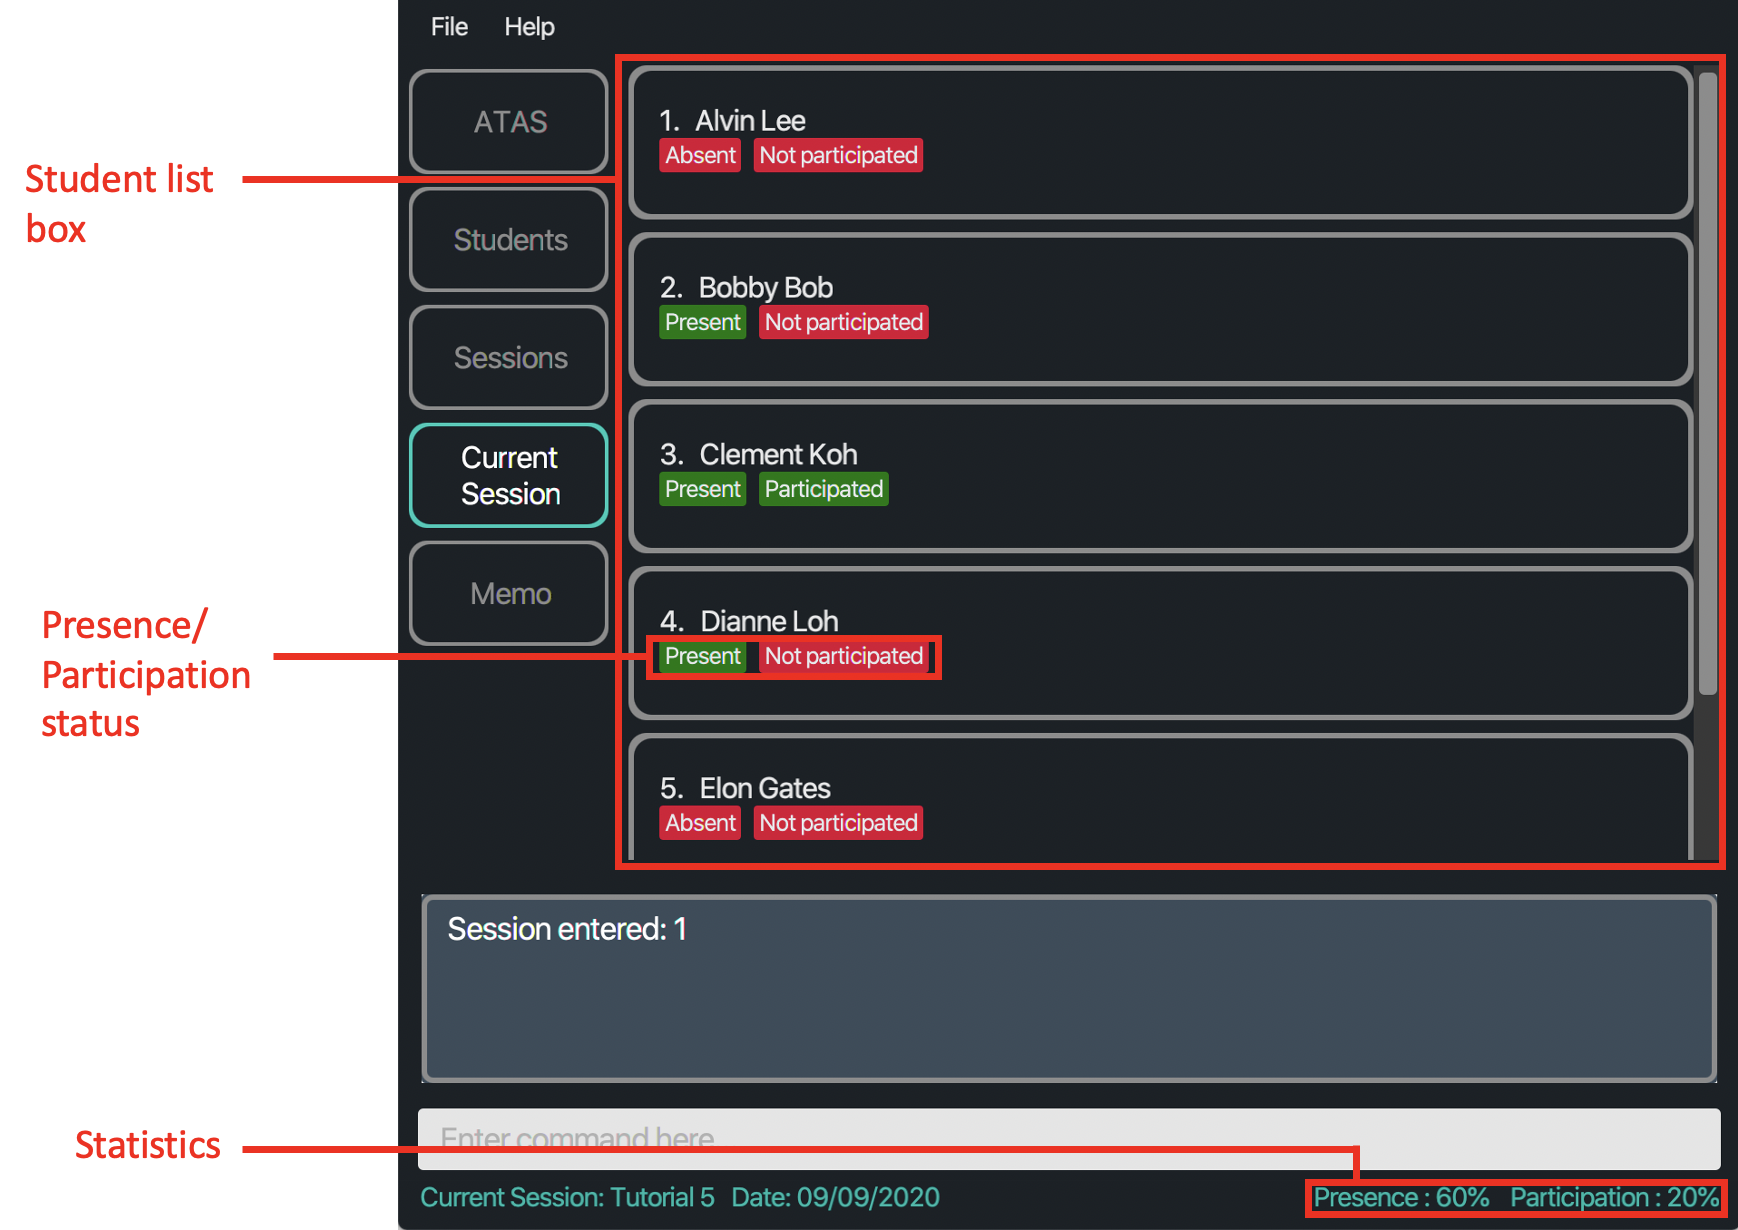
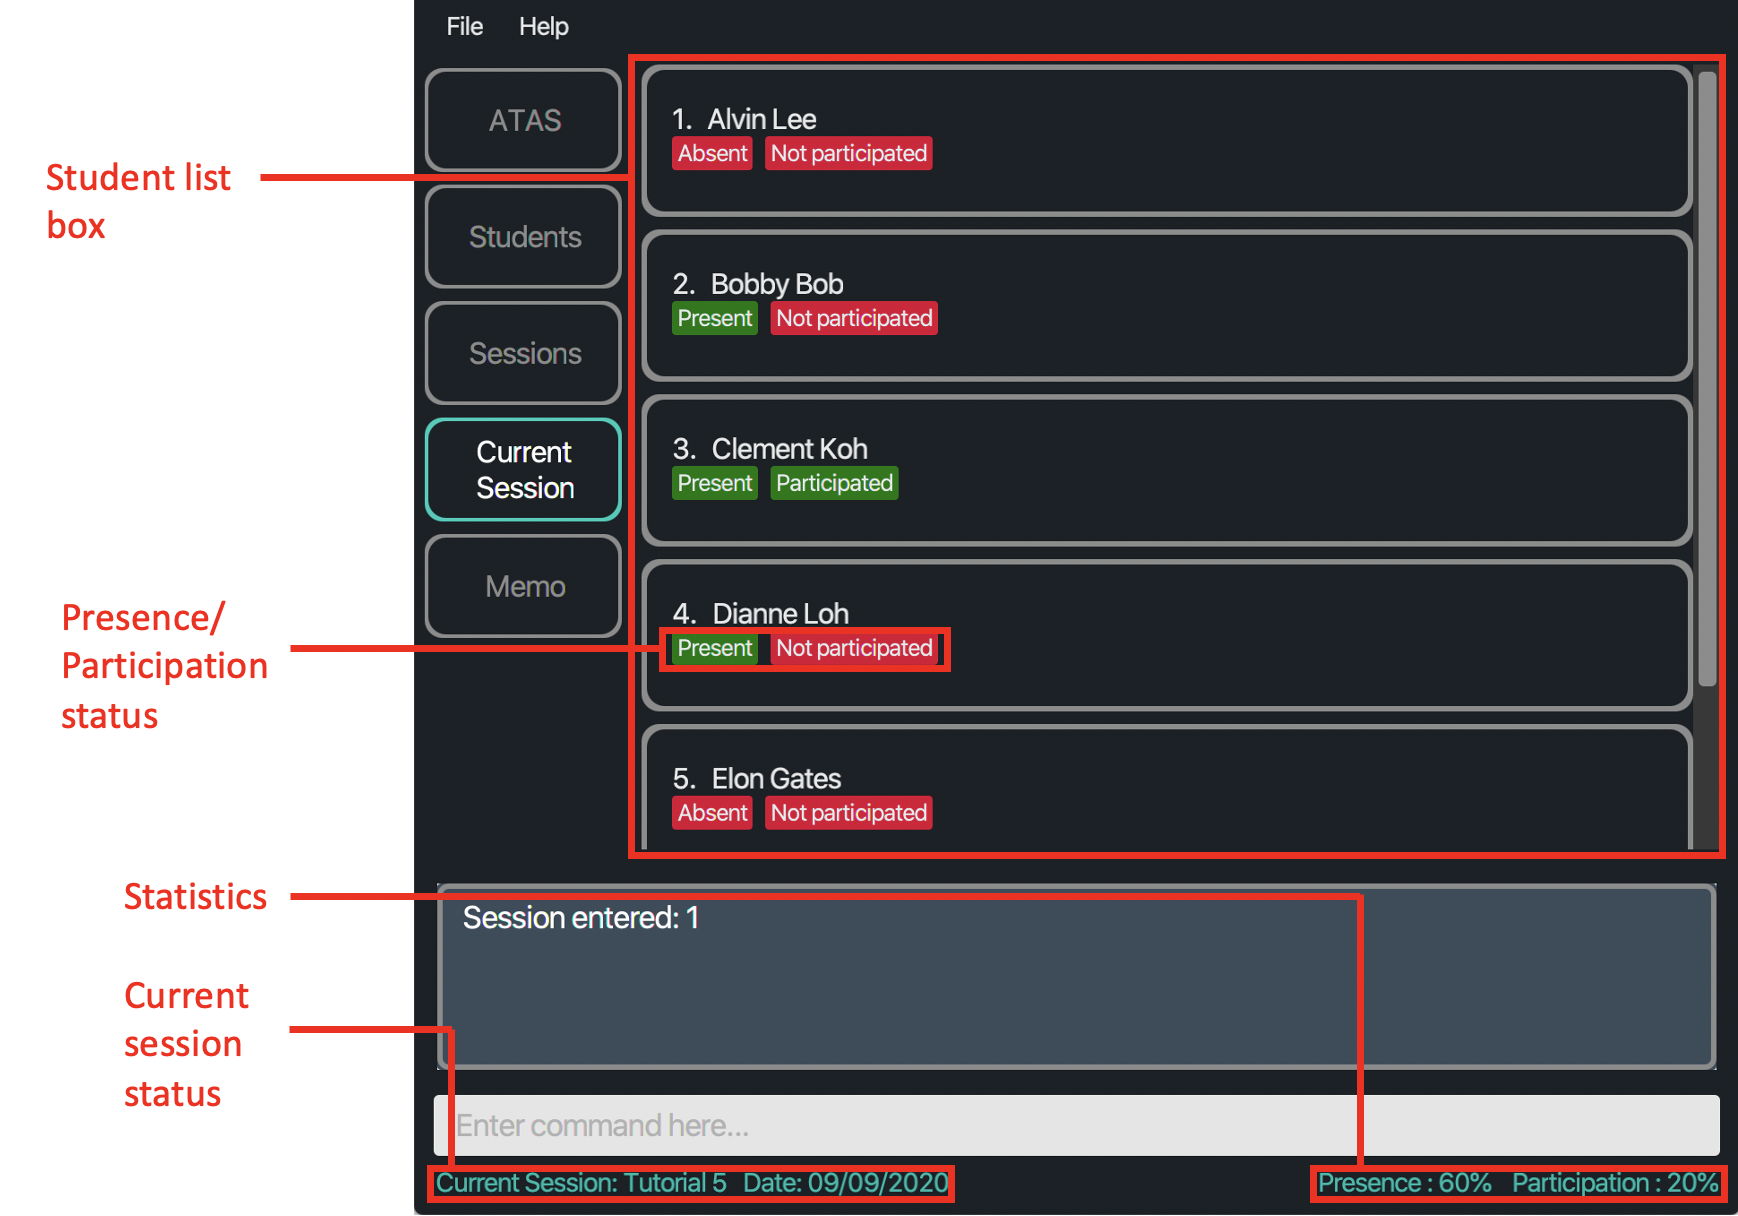
Update UG

Changed region(s): [[0.0311, 0.0, 0.9942, 1.0], [0.0311, 0.5, 0.1554, 0.625], [0.0, 0.125, 0.1554, 0.2188]]

diff --git a/docs/UserGuide.md b/docs/UserGuide.md
@@ -268,8 +268,9 @@ The following is how the `Current Session` tab looks like:
 
 Notes:
    * **Student list box**: Similar to the `Students` tab, this box contains a list of students. However, only their names are shown here. The order of students follows that of the `Students` tab.
-   * **Presence/Participation Status**: If student is absent or has not participated, <span style="background-color: crimson; color: white">label</span> will be red, whereas if student is present or has participated, then <span style="background-color: green; color: white">label</span> is green.
-   * **Statistics**: Calculated as a percentage of the number of students that was present or has participated out of all the students.
+   * **Presence/Participation status**: If student is absent or has not participated, <span style="background-color: crimson; color: white">label</span> will be red, whereas if student is present or has participated, then <span style="background-color: green; color: white">label</span> is green.
+   * **Current session's status**: Contains the session's name and date that you are currently in. You will see "Currently not in session" if you are not in any session. This can be seen in all the tabs.
+   * **Statistics**: Calculated as a percentage of the number of students that was present or has participated out of all the students. You will see nothing here if you are not in any session. This can be seen in all the tabs.
 
 Similar to the [`Students`](#41-students) tab, if there are no students in that session, you will see a similar message as shown in **Figure 4.1.2**.
 
@@ -547,9 +548,10 @@ Program window will be closed.
 
 { end of `features#general#exit` written by: Alvin Chee Teck Weng }
 
+{ start of `features#students` written by: Zhang Sheng Yang }
+
 ### 5.3. Students
 
-{ start of `features#students` written by: Zhang Sheng Yang }
 <br/>
 <br/>
 This category consists of features related to students.
@@ -972,9 +974,9 @@ You cannot be in one session and enter that particular session again.
 
 { end of `sessions` written by: Alvin Chee Teck Weng }
 
-### 5.5. Current session
-
 { start of `features#current_session` written by: Zhang Sheng Yang }
+
+### 5.5. Current session
 
 <br/>
 This category consists of features related to students.
@@ -1059,7 +1061,7 @@ This category consists of features related to `Memo`. They allow you to add text
 
 { end of `features#memo` written by: Ngoh Wei Yue }
 
-{ start of `features#memo#addnote` written by: Ngoh Wei Yue }
+{ start of `features#memo#adding_text_into_memo` written by: Ngoh Wei Yue }
 
 #### 5.6.1. Adding text into memo
 
@@ -1067,6 +1069,10 @@ You can add text into the memo in 2 ways:
 
 1. Type directly into the memo box in `Memo` tab.
 2. [Add a note](#5611-adding-a-note--addnote).
+
+{ end of `features#memo#adding_text_into_memo` written by: Ngoh Wei Yue }
+
+{ start of `features#memo#adding_text_into_memo#addnote` written by: Ngoh Wei Yue }
 
 ##### 5.6.1.1. Adding a note : `addnote`
 
@@ -1103,8 +1109,7 @@ The text "clarify qn 3 with prof" is added onto a new line in the memo box.
 <p align="center"> <sub> <b>Figure 5.6.1.1.2</b>: Application view after adding a note </sub> </p>
 
 
-{ end of `features#memo#addnote` written by: Ngoh Wei Yue }
-
+{ end of `features#memo#adding_text_into_memo#addnote` written by: Ngoh Wei Yue }
 
 { start of `features#memo#save_memo` written by: Ngoh Wei Yue }
 
